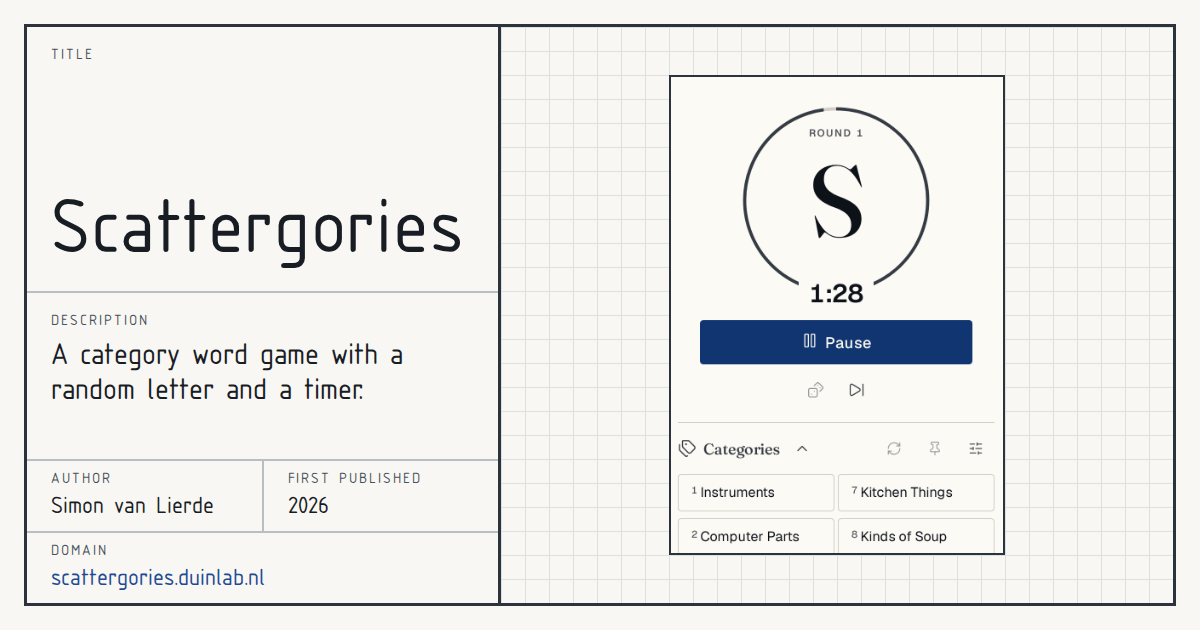
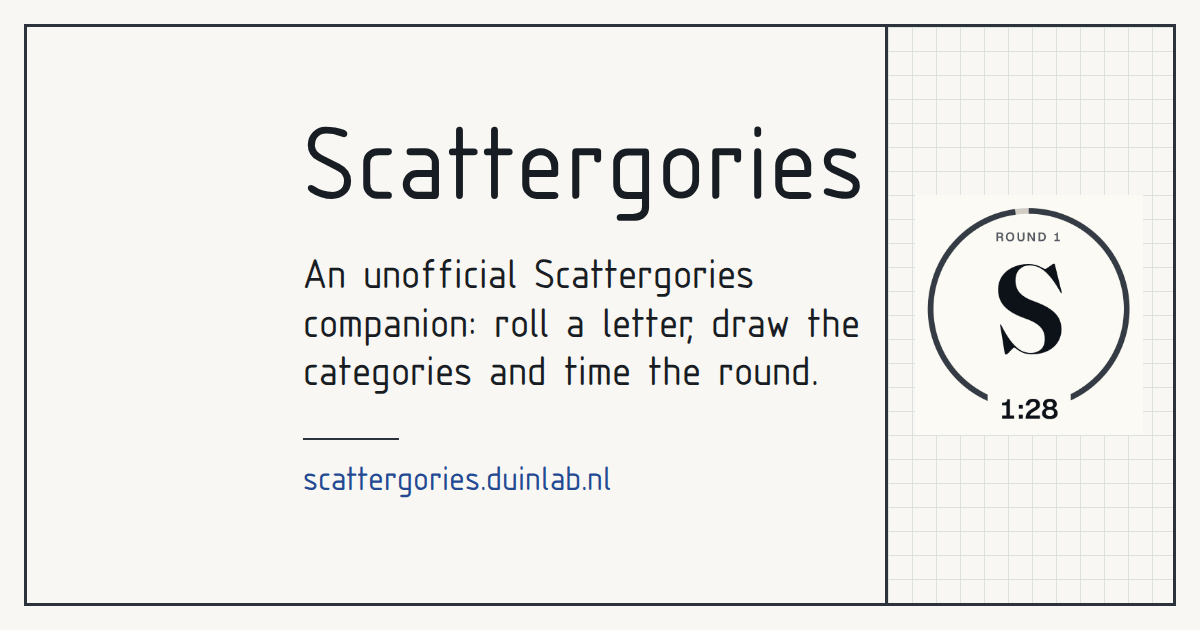
feat(social-card): re-render the card as a poster that reads at preview size (#157)
* feat(social-card): re-render the card as a poster that reads at preview size

The title-block card showed field labels and a small screenshot that were texture at 300-500 px. It now shows
the name, one line, the address and the round timer with the category list, made with
simonvanlierde/simonvanlierde.github.io social-card (d6041d9 on branch social-card-poster).

- og:image:alt states the card's message
- the README says how to regenerate it

* fix(social-card): show the round's letter and timer on the card

The card's right-hand panel held a whole phone screen, so its text was about 4 px at link-preview size.
- replace it with the letter dial and its 1:28 timer, without the category list, captured at 3x and cropped tight
- fit the crop with --fit contain so nothing is cut
- update the README command and the og:image:alt text
- keep phone-light.png, which the README still shows

* fix: show the whole timer dial on the social card

- the visual cropped the letter and the clock so tight that the ring showed as two stubs; it is now the full dial, captured at 3x
- the capture lives in tests/shots/readme.spec.ts so the visual can be rebuilt
- update og:image:alt and the README's card command notes

---------

diff --git a/tests/shots/readme.spec.ts b/tests/shots/readme.spec.ts
@@ -31,3 +31,38 @@ for (const [name, viewport] of [
     });
   }
 }
+
+// The social card's visual (docs/screenshots/og-dial.png): the whole letter dial, ring and
+// timer, at 3x so the thin ring and the readout stay sharp when the card is shown small.
+test.describe("README social card dial", () => {
+  test.use({ viewport: { width: 390, height: 844 }, deviceScaleFactor: 3, colorScheme: "light" });
+
+  test("captures the dial of a running round", async ({ app, page }) => {
+    await page.addInitScript(() => {
+      let seed = 7;
+      Math.random = () => {
+        seed = (seed * 16807) % 2147483647;
+        return (seed - 1) / 2147483646;
+      };
+    });
+    await page.clock.install();
+    await page.reload();
+    await app.waitUntilReady();
+    await page.evaluate(() => document.fonts.ready);
+    await app.startRound();
+    await page.clock.runFor(6500);
+    await app.expectRunning();
+    const box = await page.locator(".playmat__hero").boundingBox();
+    if (!box) {
+      throw new Error("the dial is not on the page");
+    }
+    // The readout hangs below the hero box: extend the capture so it fits, with no other margin so the
+    // ring fills the card's narrow panel.
+    const readoutHang = 12;
+    await page.screenshot({
+      path: "docs/screenshots/og-dial.png",
+      animations: "disabled",
+      clip: { x: box.x, y: box.y, width: box.width, height: box.height + readoutHang },
+    });
+  });
+});

diff --git a/index.html b/index.html
@@ -23,7 +23,7 @@
     <meta property="og:image" content="https://scattergories.duinlab.nl/og.png" />
     <meta property="og:image:width" content="1200" />
     <meta property="og:image:height" content="630" />
-    <meta property="og:image:alt" content="Scattergories on a phone mid-round: a ring timer around the letter S with 1:28 left, a Pause button and the first row of category cards." />
+    <meta property="og:image:alt" content="Scattergories: an unofficial companion that rolls a letter, draws the categories and times the round, at scattergories.duinlab.nl, beside the round's whole dial: its letter inside the timer ring, at 1:28." />
     <meta name="twitter:card" content="summary_large_image" />
     <title>Scattergories</title>
   </head>

diff --git a/README.md b/README.md
@@ -42,6 +42,18 @@ The app serves English privacy and accessibility statements at `/privacy` and `/
 Open **How to play** to find links to both pages. Their source is in
 [`docs/privacy.md`](docs/privacy.md) and [`docs/accessibility.md`](docs/accessibility.md).
 
+## Social card
+
+`public/og.png` is the 1200x630 card shown when the link is shared. It is made with the generator in
+[my site repo](https://github.com/simonvanlierde/simonvanlierde.github.io/tree/main/scripts/social-card)
+(needs Docker). The visual is the round's whole dial, letter, ring and timer, captured at 3x by `tests/shots/readme.spec.ts` (`just ts-shots` rewrites `docs/screenshots/og-dial.png`). From a checkout of that repo, with this repo next to it:
+
+```sh
+pnpm gen:card --visual ../scattergories/docs/screenshots/og-dial.png --name "Scattergories" \
+  --line "An unofficial Scattergories companion: roll a letter, draw the categories and time the round." \
+  --domain scattergories.duinlab.nl --out ../scattergories/public/og.png --fit contain
+```
+
 ## Links
 
 - [Architecture and deployment](docs/architecture.md), [decision records](docs/adr/)
